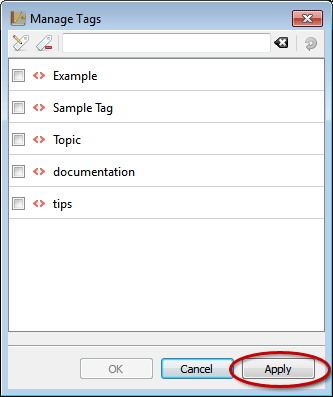
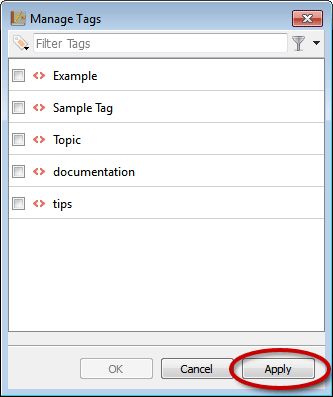
made changes to tagging documentation

diff --git a/doc/tags.html b/doc/tags.html
@@ -30,7 +30,9 @@ class="masthead" height="72" width="606">
 <h1>Working With Tags</h1>
 
 <h2 id="Sections">Sections</h2>
-<ol class="toc">
+
+<div class="toc">
+<ol>
   <li><a href="#Tagging">Tagging Overview</a> 
     <ol>
       <li><a href="#Best">Best Practices</a></li>
@@ -40,16 +42,20 @@ class="masthead" height="72" width="606">
       Editor)</a></li>
     </ol>
   </li>
+  <li><a href="#L7841">The <strong>Tag Menu</strong> and <strong>Toggle
+    Filtering</strong> Menu</a></li>
   <li><a href="#Declaring">Declaring a New Tag</a></li>
   <li><a href="#Assigning">Applying or Removing Tags</a></li>
   <li><a href="#L306">Other Tag-Related Features</a> 
     <ol>
       <li><a href="#L310">Revert Tags</a></li>
       <li><a href="#L396">Strip Tags</a></li>
+      <li><a href="#L1619">Filtering Tags</a></li>
     </ol>
   </li>
   <li><a href="#tag_reminder">Tag Reminder Window</a></li>
 </ol>
+</div>
 
 <h2 id="Tagging">Tagging Overview</h2>
 
@@ -67,16 +73,6 @@ entry in the Timeline or the entry that is currently open in the Editor. As
 such, using the tagging system requires an active database connection. All
 tag-related functionality is locked while RoboJournal is in Default State due
 to there being no point of reference. </p>
-
-<p>In version 0.5 and later, RoboJournal's tagging system has been completely
-redesigned to be much more straightforward and intuitive. The new interface is
-intended to streamline the task of applying or removing tags from entries;
-instead of adding tags one at a time from a drop-down list (as was the case in
-older versions) the new system makes adding tags to entries as simple as
-checking items from a list of all available tags. Furthermore, most tag-related
-functions have been consolidated into drop-down toolbar menus:</p>
-
-<p>[picture of menus goes here]</p>
 
 <p>In addition to the standalone Manage Tags window, the tagging system has
 also been integrated into the Editor as the Tag Management Pane. The Tag
@@ -218,6 +214,68 @@ Pane does not require you to manually commit changes to an entry's tag data.
 RoboJournal automatically saves/updates the current entry's tags when you post
 a new entry or save changes to an existing one.</p>
 
+<h2 id="L7841">The <strong>Tag Menu</strong> and <strong>Toggle
+Filtering</strong> Menu</h2>
+
+<p>In version 0.5 and later, RoboJournal's tagging system has been completely
+redesigned to be much more straightforward and intuitive. The new interface is
+intended to streamline the task of applying or removing tags from entries;
+instead of adding tags one at a time from a drop-down list (as was the case in
+older versions) the new system makes adding tags to entries as simple as
+checking items from a list of all available tags. </p>
+
+<p>The original tag interface design with its individual buttons was
+impractical for integration into the Editor window. Instead, RoboJournal 0.5
+(and later) utilizes a menu-based system to prevent user interface
+overcrowding, especially when <a
+href="preferences.html#global_preferences">toolbar button labels</a> are
+enabled. Under this new design, most tag-related functionality is contained
+within the tag menu. You can access the tag menu at any time by clicking the
+<strong>Tag Menu</strong> toolbar button:<img alt="Figure 6"
+src="img/screens/tag_menu.png" width="333" height="397"
+class="screenshot"><span class="caption">Figure 6: The Tag Menu toolbar button
+displays a drop-down list containing most of RoboJournal's tag-related
+functionality.</span></p>
+
+<p>The following table addresses each item on the tag menu:</p>
+
+<table border="0">
+  <col>
+  <col>
+  <tbody>
+    <tr>
+      <td class="left"><a href="#Declaring">Declare new tag</a></td>
+      <td class="right">This option allows you to add a new tag to the
+        Available Tags list.</td>
+    </tr>
+    <tr>
+      <td class="left"><a href="#L396">Strip all tags</a></td>
+      <td class="right">This feature purges all tag data from the current
+      entry.</td>
+    </tr>
+    <tr>
+      <td class="left">Auto-tag entry (experimental)</td>
+      <td class="right">Auto-tagging is an experimental feature that causes
+        RoboJournal to assign tags based on the contents of the current entry's
+        body text.</td>
+    </tr>
+    <tr>
+      <td class="left"><a href="#L310">Revert Tags</a></td>
+      <td class="right">This feature reverts all tag changes you have made.
+      </td>
+    </tr>
+  </tbody>
+</table>
+
+<p>The <a href="#L1619">Toggle Filtering</a> menu is displayed by clicking the
+down arrow immediately to the right of the <strong>Toggle Filtering</strong>
+button (Figure 7). The menu only contains the <strong>Clear Tags</strong> list
+item, which erases the current search pattern in the <strong>Filter
+Tags</strong> field.<img alt="Figure 7"
+src="img/screens/toggle_filtering_menu.png" width="333" height="397"
+class="screenshot"><span class="caption_wide">Figure 7: The Toggle Filtering
+menu contains items specifically related to tag filtering.</span></p>
+
 <h2 id="Declaring">Declaring a New Tag</h2>
 
 <p>Journals are deliberately created with no pre-existing tag data. RoboJournal
@@ -244,23 +302,24 @@ window and the Editor's Tag Management Pane (the screenshots show the Manage
 Tags window for the sake of simplicity)</p>
 <ol class="list">
   <li>Click the <strong>Define Tag</strong> button on the Manage Tags
-    window.<img alt="Figure 6" src="img/screens/define_tag1.png"
+    window.<img alt="Figure 8" src="img/screens/define_tag1.png"
     class="screenshot" height="397" width="333"><span
-    class="caption_wide">Figure 5: The <strong>Define Tag</strong> toolbar
+    class="caption_wide">Figure 8: The <strong>Define Tag</strong> toolbar
     button launches a text prompt that allows you to define a new
   tag.</span></li>
-  <li>The <strong>Enter the new tag:</strong> dialog is displayed. Enter the
-    new tag into the text box:<img alt="Figure 6"
+  <li>RoboJournal displays the <strong>Enter the new tag:</strong> dialog.
+    Enter the new tag into the text box:<img alt="Figure 9"
     src="img/screens/define_tag2.png" class="screenshot" height="396"
-    width="333"><span class="caption_wide">Figure 6: Enter the new tag into the
+    width="333"><span class="caption_wide">Figure 9: Enter the new tag into the
     provided text box.</span></li>
   <li>Click the <strong>OK</strong> button in the <strong>Enter the new
     tag:</strong> dialog to continue (or click the <strong>Cancel</strong>
     button to abort).</li>
-  <li>The new tag is added to the very top of the list and can now be used.<img
-    alt="Figure 7" src="img/screens/define_tag3.png" class="screenshot"
-    height="397" width="333"><span class="caption">Figure 7: Newly-defined tags
-    are inserted at the top of the list and are marked with a green plus-sign
+  <li>RoboJournal adds the new tag to the very top of the Available Tags list
+    and automatically selects it:<img alt="Figure 10"
+    src="img/screens/define_tag3.png" class="screenshot" height="397"
+    width="333"><span class="caption">Figure 10: Newly-defined tags are
+    inserted at the top of the list and are marked with a green plus-sign
     indicator.</span></li>
 </ol>
 
@@ -284,16 +343,16 @@ readability. </p>
 
 <p>To apply a tag to an entry, click once on the corresponding list item (the
 box to the left of the tag name checks itself automatically):<img
-alt="Figure 8" src="img/screens/apply_tag.png" class="screenshot-noshadow"
-height="291" width="698"><span class="caption">Figure 8: Clicking an inactive
+alt="Figure 11" src="img/screens/apply_tag.png" class="screenshot-noshadow"
+height="291" width="698"><span class="caption">Figure 11: Clicking an inactive
 tag in the list applies that tag to the current entry.</span></p>
 
 <p>Each time the Manage Tags window or the Editor is displayed, RoboJournal
 automatically marks all active tags so you will know which ones are already in
 use. To remove a tag from an entry, simply click the appropriate list item once
-(the checkbox clears itself automatically):<img alt="Figure 9"
+(the checkbox clears itself automatically):<img alt="Figure 12"
 src="img/screens/remove_tag.png" class="screenshot-noshadow" height="291"
-width="698"><span class="caption">Figure 9: Clicking an active tag (shown by
+width="698"><span class="caption">Figure 12: Clicking an active tag (shown by
 the red circle) removes that tag from the current entry.</span></p>
 
 <div class="FYI">
@@ -327,35 +386,31 @@ data no longer exists.</p>
 <p>The following procedure assumes the Manage Tags window is already displayed
 or the Tag Management Pane is visible in the Editor:</p>
 <ol class="list">
-  <li>Make one or more changes to the tag data to unlock the <strong>Revert
-    Tags</strong> toolbar button (shown in Figure x).<img
-    style="width: 333px; height: 397px;" alt="Figure 10"
+  <li>The <strong>Revert Tags</strong> menu item is locked by default. Making
+    one or more changes to the current entry's tag data establishes a history,
+    which causes the <strong>Revert Tags</strong> menu item to unlock. </li>
+  <li>After you have established a history, click the <strong>Tag Menu</strong>
+    to display the tag operations menu: <img
+    style="width: 333px; height: 397px;" alt="Figure 13"
     src="img/screens/revert_tags1.png" class="screenshot"><span
-    class="caption">Figure 10: The <span style="font-weight: bold;">Revert
+    class="caption">Figure 13: The <span style="font-weight: bold;">Revert
     Tags</span> button unlocks itself after you have made at least one change
     to an entry's tag data. </span></li>
-  <li>Click the <strong>Revert Tags</strong> button. RoboJournal asks you to
-    confirm your decision to discard all changes you made to the tag data.</li>
-  <li>Click the <strong>Yes</strong> button to continue or click
-    <strong>No</strong> to abort.</li>
-  <li>If you chose to continue, RoboJournal restores the saved tags for the
-    selected entry:<img alt="Figure 11" src="img/screens/revert_tags2.png"
-    class="screenshot" height="397" width="333"><span class="caption">Figure
-    11: Each revert tags operation restores the previous condition of an
-    entry's tag data. </span> 
-    <p>Steps 5–6 are only applicable when you are using the standalone Manage
-    Tags window. If you are completing this procedure through the Editor's Tag
-    Management Pane, any changes to the tag data are not finalized until you
-    save the current entry (closing the Editor without saving rejects all tag
-    changes as well).</p>
+  <li>Click the <strong>Revert Tags</strong> menu item (shown in Figure 13).
   </li>
-  <li>The <strong>Apply</strong> button unlocks itself once you have made
-    changes to the tag data. To finalize the decision, click
-    <strong>Apply</strong>. If you wish to undo the changes, click
-    <strong>Cancel</strong> or use the Revert Tags feature.</li>
-  <li>Clicking <strong>Apply</strong> unlocks the <strong>OK</strong> button.
-    Click <strong>OK</strong> to close the Manage Tags window.</li>
+  <li>RoboJournal asks you to confirm your decision to discard all changes you
+    made to the tag data. Click the <strong>Yes</strong> button to continue or
+    click <strong>No</strong> to abort.</li>
+  <li>If you chose to continue, RoboJournal restores the saved tags for the
+    selected entry:<img alt="Figure 14" src="img/screens/revert_tags2.png"
+    class="screenshot" height="397" width="333"><span class="caption">Figure
+    14: In this example, "tips" is no longer selected after you have reverted
+    the entry's tags (compare with Figure 13).</span> </li>
 </ol>
+
+<p>RoboJournal only allows you to click the <strong>Cancel</strong> button
+(exiting the Manage Tags window without saving) because there are no changes in
+the history to apply after reverting the tags back to their original state.</p>
 
 <h3 id="L396">Strip Tags</h3>
 
@@ -365,17 +420,19 @@ Tags</a> feature can undo this operation. The following procedure assumes the
 Manage Tags window is displayed or the Tag Management Pane is visible in the
 Editor:</p>
 <ol class="list">
-  <li>Click the <strong>Strip Tags</strong> toolbar button (circled in Figure
-    12):<img alt="Figure 12" src="img/screens/strip_tags1.png"
-    class="screenshot" height="397" width="333"><span class="caption">Figure
-    12: The <span style="font-weight: bold;">Strip Tags </span>toolbar button
+  <li>Click the <strong>Tag Menu</strong> toolbar button to display the list of
+    tag operations. Once the list is visible, click the <strong>Strip all
+    tags</strong> list item (circled in Figure 15):<img alt="Figure 15"
+    src="img/screens/strip_tags1.png" class="screenshot" height="397"
+    width="333"><span class="caption">Figure 15: Accessing the <span
+    style="font-weight: bold;">Strip Tags </span>menu item on the Tag Menu.
     </span></li>
   <li>RoboJournal asks you to confirm your decision to strip all tags from the
     entry. Click the <strong>Yes</strong> button to proceed or click
     <strong>No</strong> to abort.</li>
   <li>If you chose to continue the operation, all tags are now unchecked:<img
-    alt="Figure" src="img/screens/strip_tags2.png" class="screenshot"
-    height="397" width="333"><span class="caption">Figure 13: The strip tags
+    alt="Figure 16" src="img/screens/strip_tags2.png" class="screenshot"
+    height="397" width="333"><span class="caption">Figure 16: The strip tags
     operation removes all tags from the current entry. Clicking the
     <strong>Apply</strong> button saves the changes.<br>
     If you are accessing the tags from the Editor, saving the current entry is
@@ -394,6 +451,54 @@ Editor:</p>
     Click <strong>OK</strong> to close the Manage Tags window.</li>
 </ol>
 
+<h3 id="L1619">Filtering Tags</h3>
+
+<p>Your journal is likely to accumulate a large number of tags over time. Since
+RoboJournal normally displays all available tags in the Available Tags list,
+finding a particular tag can prove difficult even though RoboJournal always
+sorts your journal's tags in alphabetical order. RoboJournal 0.5 (and later)
+addresses this problem by allowing you to filter the tags list to display only
+the tags that match certain criteria. </p>
+
+<p>The filtering system works by scanning the Available Tags list for tags that
+contain a user-defined string. This scan is care-insensitive and matches all
+tags that contain the specified pattern. Each time a matching tag is found,
+RoboJournal appends it to a list. Once all the tags have been scanned,
+RoboJournal displays the list of matching tags instead of the full Available
+Tags list. This feature allows you to find the desired tag(s) much more quickly
+because the list of matches is usually much shorter than the full list of
+tags.</p>
+
+<p>The following procedure assumes the Manage Tags window is displayed or the
+Tag Management Pane is visible in the Editor:</p>
+<ol class="list">
+  <li>Click the <strong>Filter Tags</strong> field (indicated in Figure 14) to
+    transfer focus to it:<img alt="Figure 17"
+    src="img/screens/filter_tags1.png" width="333" height="397"
+    class="screenshot"><span class="caption">Figure 17: When empty and
+    unfocused, the <strong>Filter Tags</strong> field displays "Filter Tags" as
+    placeholder text.</span></li>
+  <li>Once a cursor appears in the field, enter the text you wish to use as a
+    filter. As you enter text, RoboJournal automatically updates the contents
+    of the Available Tags field:<img alt="Figure 18"
+    src="img/screens/filter_tags2.png" width="333" height="397"
+    class="screenshot"><span class="caption_wide">Figure 18: Once you have set
+    a filter, RoboJournal only displays the tags that match.<br>
+    For instance, the Available Tags list in Figure 15 displays tags that
+    contain at least one occurrence of "ta".</span></li>
+  <li>(Optional) Click to select the tags you wish to use from the filtered
+    list. </li>
+  <li>(Optional) Un-toggle the <strong>Toggle Filtering</strong> button (by
+    clicking on it) to display the full Available Tags list again:<img
+    alt="Figure 19" src="img/screens/filter_tags3.png" width="333" height="397"
+    class="screenshot"><span class="caption">Figure 19: Un-selecting the
+    <strong>Toggle Filtering</strong> button clears the <strong>Filter
+    Tags</strong> field and causes RoboJournal to display the full tag list
+    again. </span></li>
+</ol>
+
+<p></p>
+
 <h2 id="tag_reminder">Tag Reminder Window</h2>
 
 <p>RoboJournal takes additional measures (starting in version 0.4.1) to ensure
@@ -409,8 +514,8 @@ prevent the Tag Reminder window from being displayed at all. </p>
 <p>If RoboJournal finds any untagged entries, it adds them to a list and
 displays them on the Tag Reminder window immediately after login (the Tag
 Reminder window is <em>not</em> displayed if RoboJournal fails to find any
-untagged entries):<img alt="Figure 14" src="img/screens/tag_reminder.png"
-class="screenshot" height="396" width="476"><span class="caption">Figure 14:
+untagged entries):<img alt="Figure 20" src="img/screens/tag_reminder.png"
+class="screenshot" height="396" width="476"><span class="caption">Figure 20:
 The Tag Reminder window is shown only if RoboJournal detects untagged
 entries.</span></p>
 

diff --git a/doc/toc.html b/doc/toc.html
@@ -122,26 +122,29 @@ alt="RoboJournal Documentation" class="masthead">
     </ol>
   </li>
   <li><a href="tags.html">Working with Tags</a> 
-    <ol class="toc">
-      <li><a href="tags.html#Tagging">Tagging Overview</a> 
-        <ol>
-          <li><a href="tags.html#Best">Best Practices</a></li>
-          <li><a href="tags.html#Accessing">Accessing the Tagging Interface
-            (Standalone)</a></li>
-          <li><a href="tags.html#L180">Accessing the Tagging Interface (From
-            the Editor)</a></li>
-        </ol>
-      </li>
-      <li><a href="tags.html#Declaring">Declaring a New Tag</a></li>
-      <li><a href="tags.html#Assigning">Applying or Removing Tags</a></li>
-      <li><a href="tags.html#L306">Other Tag-Related Features</a> 
-        <ol>
-          <li><a href="tags.html#L310">Revert Tags</a></li>
-          <li><a href="tags.html#L396">Strip Tags</a></li>
-        </ol>
-      </li>
-      <li><a href="tags.html#tag_reminder">Tag Reminder Window</a></li>
+    <ol>
+  <li><a href="tags.html#Tagging">Tagging Overview</a> 
+    <ol>
+      <li><a href="tags.html#Best">Best Practices</a></li>
+      <li><a href="tags.html#Accessing">Accessing the Tagging Interface
+      (Standalone)</a></li>
+      <li><a href="tags.html#L180">Accessing the Tagging Interface (From the
+      Editor)</a></li>
     </ol>
+  </li>
+  <li><a href="tags.html#L7841">The <strong>Tag Menu</strong> and <strong>Toggle
+    Filtering</strong> Menu</a></li>
+  <li><a href="tags.html#Declaring">Declaring a New Tag</a></li>
+  <li><a href="tags.html#Assigning">Applying or Removing Tags</a></li>
+  <li><a href="tags.html#L306">Other Tag-Related Features</a> 
+    <ol>
+      <li><a href="tags.html#L310">Revert Tags</a></li>
+      <li><a href="tags.html#L396">Strip Tags</a></li>
+      <li><a href="tags.html#L1619">Filtering Tags</a></li>
+    </ol>
+  </li>
+  <li><a href="tags.html#tag_reminder">Tag Reminder Window</a></li>
+</ol>
   </li>
   <li><a href="export.html">Exporting Journal Entries</a> 
     <ol>

diff --git a/ui/editortagmanager.cpp b/ui/editortagmanager.cpp
@@ -279,7 +279,13 @@ void EditorTagManager::DefineTag(){
         defined->setFlags(Qt::ItemIsUserCheckable | Qt::ItemIsEnabled);
         defined->setCheckState(0, Qt::Unchecked);
 
+        // Insert new tag at the top of the list....
         ui->AvailableTags->insertTopLevelItem(0, defined);
+
+        // ...and select it automatically (11/1/13).
+        defined->setCheckState(0, Qt::Checked);
+        defined->setFont(0, selected);
+        defined->setForeground(0,selected_fg);
     }
 }
 
